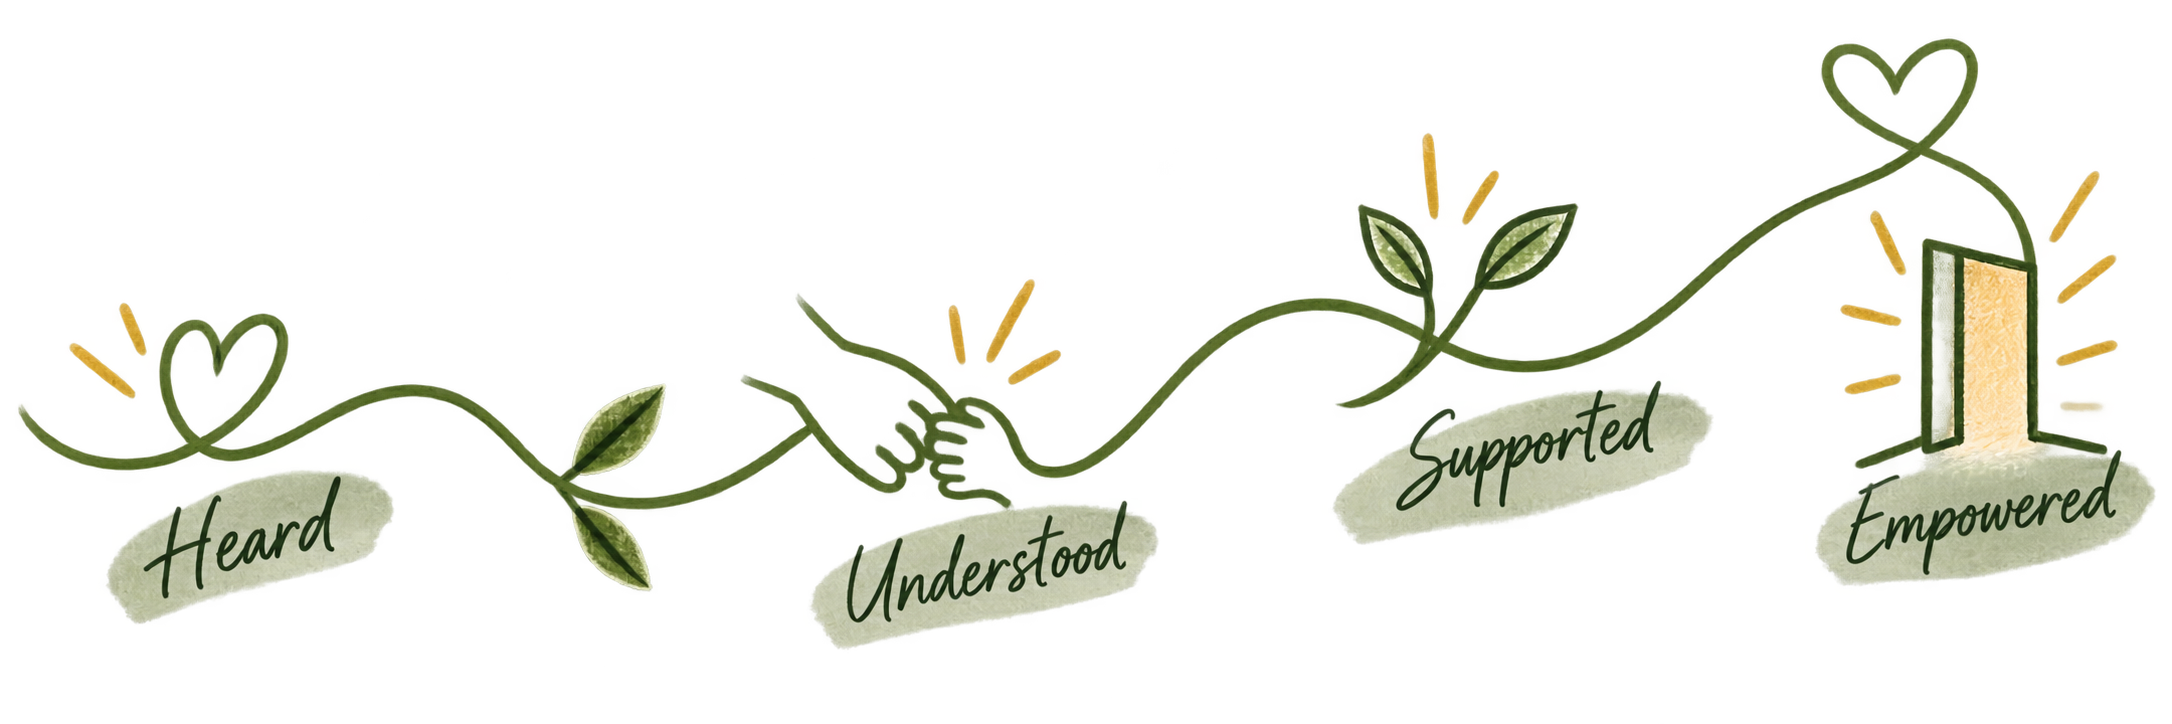
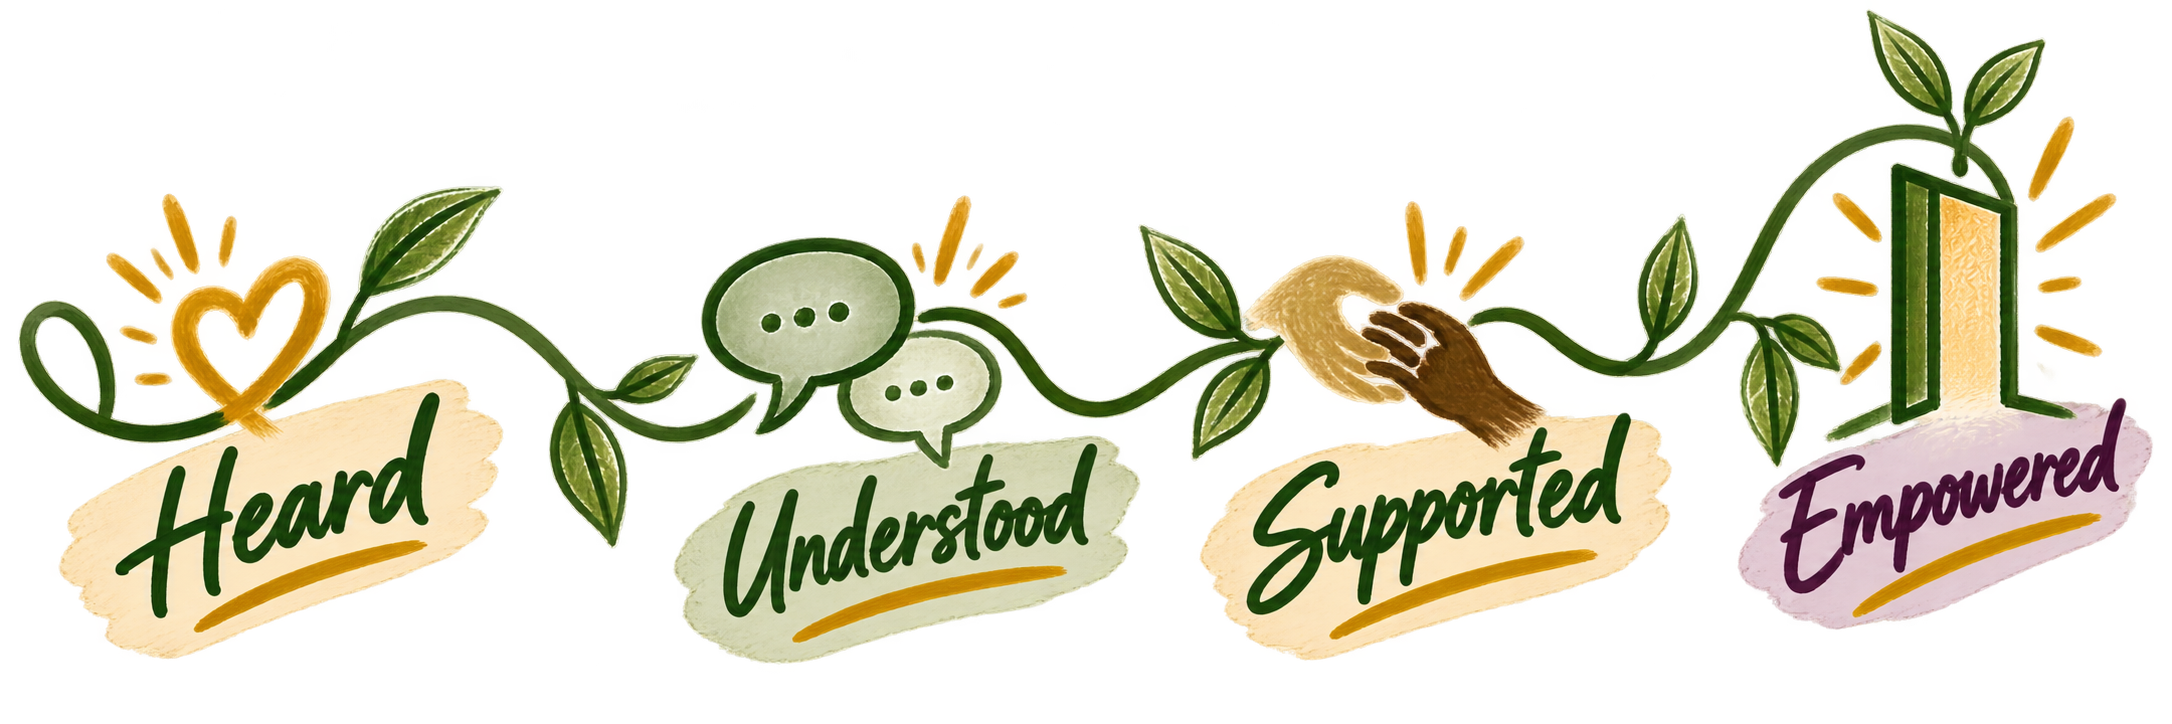
Replace Support Path asset with a bolder, more legible version
The original path illustration's Heard/Understood/Supported/Empowered
lettering was too small and cursive to comfortably read at the sizes
it appeared on the page. Swap in a redrawn version with larger,
higher-contrast lettering per waypoint, and size up the "Walk"
section so the words are the clear focal point there instead of
decorative texture.

Claude-Session: https://claude.ai/code/session_01PmUBkkqgZ5ph8YnXyezUqK

diff --git a/app/ecosystem/mission-139/page.tsx b/app/ecosystem/mission-139/page.tsx
@@ -158,37 +158,37 @@ export default function Mission139Page() {
 
       {/* The Walk — a quiet moment before the final ask. The path itself
           (its Heard / Understood / Supported / Empowered waypoints already
-          drawn into the illustration) is the whole section, bleeding past
-          both edges rather than boxed as an infographic. */}
+          drawn into the illustration) is the whole section, sized so the
+          lettering is comfortably legible rather than purely decorative. */}
       <section className="overflow-hidden py-16 sm:py-20">
-        <div className="relative mx-auto hidden h-36 w-[112%] -translate-x-[5%] sm:h-44 lg:block">
+        <div className="relative mx-auto hidden aspect-[3/1] w-full max-w-4xl px-6 lg:block">
           <Image
             src="/images/mission-support-path.png"
             alt={PATH_FULL_ALT}
             fill
-            sizes="112vw"
+            sizes="900px"
             className="object-contain"
           />
         </div>
 
         {/* Mobile: two small fragments, not one long line down the page. */}
         <div className="flex items-center justify-center gap-8 px-6 lg:hidden">
-          <div className="relative h-16 w-32">
+          <div className="relative h-24 w-40">
             <Image
               src="/images/mission-support-path.png"
               alt={PATH_FULL_ALT}
               fill
-              sizes="128px"
+              sizes="160px"
               className="object-cover"
               style={{ objectPosition: "58% 40%" }}
             />
           </div>
-          <div className="relative h-20 w-24">
+          <div className="relative h-28 w-32">
             <Image
               src="/images/mission-support-path.png"
               alt=""
               fill
-              sizes="96px"
+              sizes="128px"
               className="object-cover"
               style={{ objectPosition: "97% 40%" }}
             />
